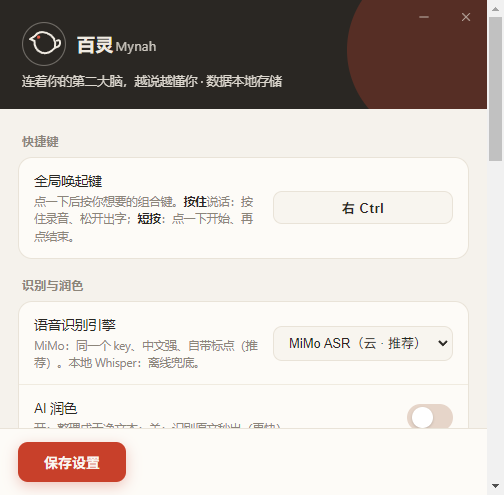
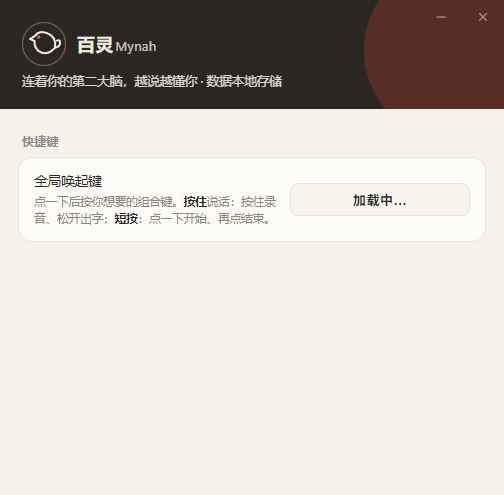
隐私净化：安装包剥离个人数据（data 仅 terms.default.json）+ 知识库默认路径清空 + 文档脱敏

diff --git a/scripts/preview-settings.js b/scripts/preview-settings.js
@@ -23,7 +23,7 @@ app.whenReady().then(async () => {
     ['polishEnabled','structureMode','autoPaste','autoScene','kbEnabled'].forEach(id => {
       const el = document.getElementById(id); if (el) el.classList.add('on');
     });
-    const kb = document.getElementById('kbVaultPath'); if (kb) kb.value = 'Documents/赚钱/ChenNing-Operating-Wiki';
+    const kb = document.getElementById('kbVaultPath'); if (kb) kb.value = 'Documents/Obsidian-Vault';
     const msg = document.getElementById('kbMsg'); if (msg) { msg.textContent = '136 篇 · 716 块 · 已就绪'; msg.className = 'test-msg ok'; }
   `);
   await new Promise((r) => setTimeout(r, 150));

diff --git a/src/main/config.js b/src/main/config.js
@@ -48,7 +48,7 @@ const config = {
   kb: {
     // 知识库 RAG：口述时检索 Obsidian 相关笔记喂给润色，让它懂你的领域/专名。
     enabled: process.env.BAILING_KB !== '0',
-    vaultPath: process.env.BAILING_VAULT || 'C:/Users/chenn/Documents/赚钱/ChenNing-Operating-Wiki',
+    vaultPath: process.env.BAILING_VAULT || '', // 默认空：用户在设置页选自己的库（不预置任何个人路径）
     topK: 3,
     maxChunkChars: 500,
     minScore: 5,

diff --git a/docs/PROJECT_HANDOFF.md b/docs/PROJECT_HANDOFF.md
@@ -12,7 +12,7 @@
 - **GitHub**：`github.com/msaysay/bailing`（开源，main 分支；Release v0.3.0 挂**无 Key** 安装包 `BailingMynah-Setup-0.3.0.exe`）。推送用本机 git 凭据（msaysay）。
 - **官网**：`https://49.gx.cn/bailing/`（静态单页，源在 `site/`）。服务器 `root@159.75.115.84`（密钥 `D:/cd/ssjf-deploy/secrets/deploy_ed25519`），目录 `/var/www/bailing`，Nginx 在 `xiakehui.conf` 的 49.gx.cn 块加了 `location /bailing/ { alias /var/www/bailing/; }`——**别动坊主会/知更/aiops 的块**。
 - **百度网盘**：`https://pan.baidu.com/s/1Vs5IUEae33lyUsRgv_NOpA`（提取码 hisb，用户自传无 Key 包）。
-- ⚠ **打包红线**：`extraResources` 会把 `.env`（含 key）打进安装包。**对外发包前必须临时换成 .env.example 再 dist**（首版曾误带 key 上线，已换无 Key 版，用户已知情需重置 key）。
+- ⚠ **打包红线**：`extraResources` 会把 `.env`（含 key）打进安装包；`data/` 只放行 `terms.default.json`（filter），history/learned 等个人数据绝不进包。**对外发包前必须临时换成 .env.example 再 dist**（首版曾误带 key+个人数据上线，已换净化版，用户已知情需重置 key）。
 - 主标语（全渠道统一）：**「连着你的第二大脑，越说越懂你」**。官网文案定稿在 `docs/website-content.md`。
 
 **v0.3.0 设计系统（宣纸墨朱 × 苹果极简）**：
@@ -63,7 +63,7 @@
 ## 知识库 RAG（`src/main/kb.js`）
 
 - **本地 TF-IDF 检索**，零嵌入 API、离线、快。中文 2-gram + 英文词分词。
-- 索引 Obsidian 库：默认 `C:/Users/chenn/Documents/赚钱/ChenNing-Operating-Wiki`（`config.kb.vaultPath`，可设置页改）。
+- 索引 Obsidian 库：**默认空**（v0.3.0 起不预置任何个人路径），用户在设置页「选择文件夹」指定自己的库（`config.kb.vaultPath`）。
 - **排噪**：`excludeDirs` 默认排除 07_Logs/02_Raw_Sources/10_Journal/09_Scripts/11_Finance/05_Templates/99_Attachments 等原始/流水目录（转写稿噪声大）。当前有效 136 篇/716 块/~150ms。
 - **锚点词过滤**：命中必须匹配到 IDF≥3.5 的稀有区分词，避免只撞常见字的噪声。`minScore=5`。
 - **注入**：`pipeline` 用 ASR 原文检索 top3 → 拼成背景喂 `polish`，prompt 明令「仅帮理解领域/写对专名，严禁加进输出」。
@@ -134,7 +134,7 @@
 ## 决策已定（用户拍板）
 - 定位：神鸟家族商业新成员（自用+外售同码分 DB，照青鸟模式）。
 - ASR：云端优先（默认 MiMo；生产可切火山/讯飞）。
-- 知识库：先做 RAG（已完成）+ 整个 ChenNing-Operating-Wiki 库。
+- 知识库：先做 RAG（已完成）+ 用户的 Obsidian 库（设置页自选路径）。
 - 视觉：用户设计工具定稿（青蓝鸟标），代码已实现。
 
 ## 凭证

diff --git a/docs/website-content.md b/docs/website-content.md
@@ -134,7 +134,7 @@
 ### 板块 8 · 下载 + 联系
 
 - 下载：GitHub Releases + 百度网盘双通道（零服务器压力）
-- 底部：微信二维码（`C:/Users/chenn/Desktop/陈宁微信二维码.jpg` 已就位）+ 一句话：「做知识库的同路人，加个微信聊聊」
+- 底部：微信二维码 + 一句话：「做知识库的同路人，加个微信聊聊」
 - 小字：百灵 Mynah · 神鸟家族 · 一个不懂代码的创业者，用 AI 协作开发
 
 ---
